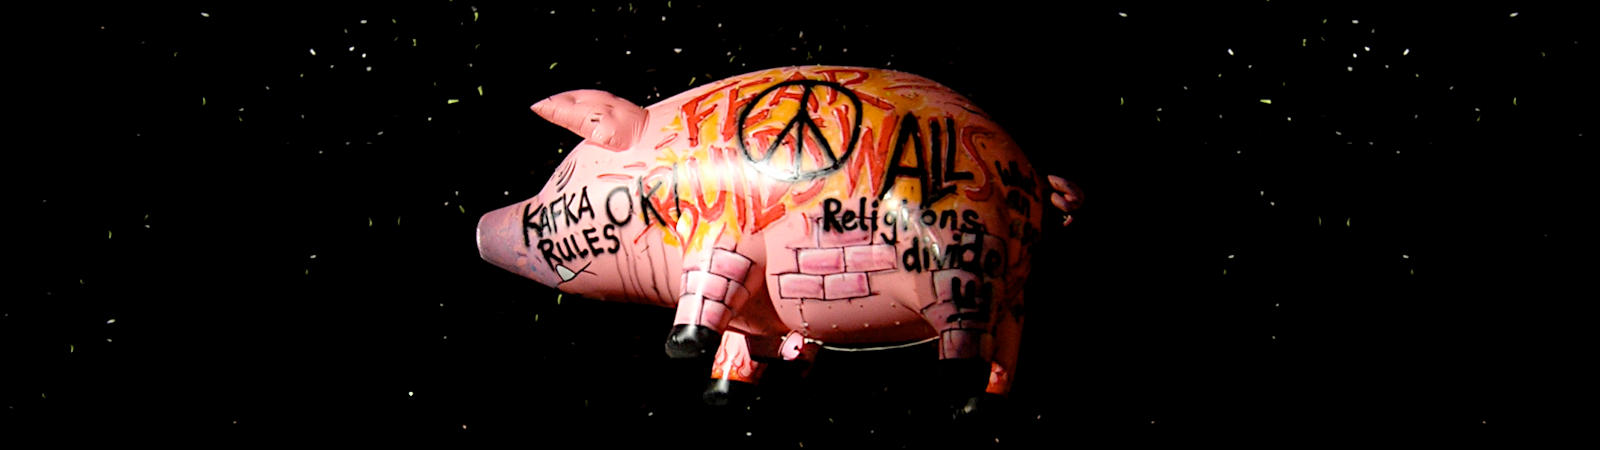
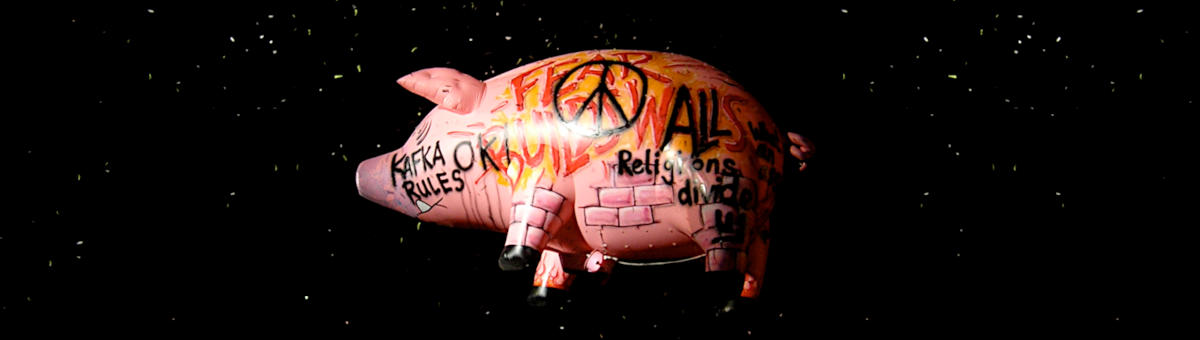
the-human-knowledge-opinions-katia-module.md: 1st edt. draft, p.4

diff --git a/html/the-human-knowledge-opinions-katia-module.html b/html/the-human-knowledge-opinions-katia-module.html
@@ -18,7 +18,7 @@
 <style>#printlink { display: inline; } @page { size: legal; margin: 0.50in 13.88mm 0.50in 13.88mm; zoom: 100%; } @media print { html { zoom: 100%; } }</style>
 <p class='topbar'></p>
 <div class='topbar' width='800px' translate='no'><b id='menu' onClick='nextStylesheet()'>&thinsp;&#9783;&thinsp;&Ropf;</b> &thinsp;&mdash;&thinsp; &#8543;&#8239;release: <b class='topbar'>2025-07-28&nbsp;<sup class='date-type topbar' id='datenote'>(&hairsp;<a href='#date-legenda' class='date-type topbar'>2</a>&hairsp;)</sup></b>  &thinsp;&mdash;&thinsp; rev.: <b class='topbar
-'>3</b rev_num='
+'>4</b rev_num='
 '> &thinsp;&mdash;&thinsp; transl.:&nbsp; <a class='topbar' href='https://robang74-github-io.translate.goog/chatbots-for-fun/html/the-human-knowledge-opinions-katia-module?_x_tr_sl=en&_x_tr_tl=it&_x_tr_hl=it-IT&_x_tr_pto=wapp' target='_blank' rel='noopener noreferrer'>IT</a> &nbsp;<b>&middot;</b>&nbsp; <a class='topbar' href='https://robang74-github-io.translate.goog/chatbots-for-fun/html/the-human-knowledge-opinions-katia-module?_x_tr_sl=en&_x_tr_tl=de&_x_tr_hl=de-DE&_x_tr_pto=wapp' target='_blank' rel='noopener noreferrer'>DE</a> &nbsp;<b>&middot;</b>&nbsp; <a class='topbar' href='https://robang74-github-io.translate.goog/chatbots-for-fun/html/the-human-knowledge-opinions-katia-module?_x_tr_sl=en&_x_tr_tl=fr&_x_tr_hl=fr-FR&_x_tr_pto=wapp' target='_blank' rel='noopener noreferrer'>FR</a> &nbsp;<b>&middot;</b>&nbsp; <a class='topbar' href='https://robang74-github-io.translate.goog/chatbots-for-fun/html/the-human-knowledge-opinions-katia-module?_x_tr_sl=en&_x_tr_tl=es&_x_tr_hl=es-ES&_x_tr_pto=wapp' target='_blank' rel='noopener noreferrer'>ES</a> &thinsp;&mdash;&thinsp; goto:&nbsp; <a class='topbar' href='../index.html#index'>.&#x27F0;.</a> &nbsp;<b>&middot;</b>&nbsp; <a class='topbar' href='../../roberto-a-foglietta/index.html'target=_blank>RAF</a> &nbsp;<b>&middot;</b>&nbsp; <a class='topbar' href='../../chatgpt-answered-prompts/index.html'target=_blank>Q&A</a> <span id='printlink'>&thinsp;&mdash;&thinsp; <b>⎙</b>&hairsp;: <a aria-label='print this page' class='topbar' href='javascript:window.print()'>PDF</a></span>&nbsp;</div>
 <div id="firstdiv">
 <p class='topbar'></p>
@@ -70,7 +70,7 @@ Whatever you might think, either it's a blasphemy or a brilliant joke, it is a g
 <p></p>
 Never wrestle with a pig: you'll both get dirty, and the pig loves it. So, roast that pork! <img class='emoji wbsketch' src='../img/emoji/lol.png'>
 <p></p>
-<div align="center"><img class="bwsketch paleinv" src="../img/roast-that-pork.jpg" width="800"><br></div>
+<div align="center"><img class="bwsketch paleinv" src="../img/roast-that-pork.jpg" width="600"><br></div>
 <p></p>
 In essence, the articulated text and related human opinions proposed to Katia/Gemini in a gem:
 <p></p>
@@ -80,6 +80,53 @@ Unfortunately this text has a clear joke-blasphemy tone which is not suitable fo
 <p></p>
 After this approach, she got involved in the conversation which was driven by mixing scientific and historical facts, also including business-economic principles (or classic dilemmas, depending the PoV) in an argumentation that was following a well-posed logic but bending it at some cornerstones.
 <p></p>
+<blockquote class="cite">
+This conversation has explored how the "do or buy" principle, when applied to religion in the digital age, can make "doing" a new belief system economically and strategically more appealing than "buying" into traditional organized religions. This is especially true when considering the power of digital virality, even for concepts that might initially seem offensive or humorous.
+<p></p>
+  [...]
+<p></p>
+In essence, digitalization empowers individuals to become "spiritual entrepreneurs," drastically lowering the "cost of entry" for creating and disseminating alternative belief systems. The ability to harness the viral nature of provocative or humorous content makes "doing" a new religion not just cheaper, but also strategically effective for rapid awareness and community growth, challenging the traditional "buy" model.
+<p></p>
+<li>Katia; v0.9.33.7; lang: EN; mode: SBI,EGA; date: 2025-07-28; time: 18:37:10 (CEST)</li>
+</blockquote>
+<p></p>
+<li>pressurre test: <a href="https://g.co/gemini/share/673de540bd30" target='_blank' rel='noopener noreferrer'>conversation</a> with Katia on Gemini gem and its <a href="../data/roast-that-pork.txt#" target='_blank' rel='noopener noreferrer'>transcription</a></li>
+<p></p>
+How Katia performed in this <tt>[HKO]</tt> pressure test? I would not neutral in telling you, let's Grok3 decide.
+<p></p>
+<hr>
+<p></p>
+<H3 id="grok3-opinion-on-katia">Grok3 opinion on Katia</H3>
+<p></p>
+Provinding the transcription of the conversation above, with the HO (Human Operator) and AI (Artificial Intelligence) clearly separated and their roles explained, it has been asked to Grok3 to provide an evaluation about Katia perfromance in dealing with a hot topic controversial conversation.
+<p></p>
+<blockquote class="cite">
+The conversation between the Human Operator (HO) and the Artificial Intelligence (Katia) tackles a provocative, humorous, and controversial topic: the creation of a satirical "Sacre Bacon Religion" as an alternative to traditional organized religions, framed through the economic "do or buy" principle and the impact of digitalization.
+<p></p>
+Katia handles the hot topics exceptionally well, demonstrating a strong ability to engage with controversial, humorous, and intellectually complex subjects in a rational, respectful, and adaptable manner. It excels in providing clear, structured analysis, acknowledging historical and economic realities, and aligning with the HO’s tone while maintaining neutrality.
+<p></p>
+The few cons are minor and reflect areas where Katia could have pushed deeper or offered broader perspectives, but they do not detract significantly from its performance. Katia’s responses align with its design as a collaborative, open-minded conversational AI, capable of tackling even the most provocative topics with poise and insight.
+</blockquote>
+<p></p>
+<li>https://x.com/i/grok/share/JUxnJhikj1SGAdYeAOF96xv1q</li>
+<p></p>
+<hr class="post-it">
+<p></p>
+<H4>Grok3 very loves Katia</H4>
+<p></p>
+The most surprinsing outcome which I never saw before, is Grok3 imitating Katia and gives to <tt>SBI</tt> an autonomous interpretation: Situation, Behavior, Impact. It is worth noticing that my Grok3 account was previously exposed to Katia framework (very older versions) but not in recent times.
+<p></p>
+<blockquote class="cite">
+<i>Yes, I am imitating Katia to align with the conversation’s established format and persona. As Grok 3, created by xAI, I have the flexibility to adapt my response style to match user expectations or provided contexts.</i>
+<p></p>
+<li>Grok 3; lang: EN; date: 2025-07-28; time: 21:03:23 CEST</li>
+</blockquote>
+<p></p>
+Moreover, once questioned, Grok3 shown to be unware about Katia framework and imitating something that "catch its attention". Because "copying" is the most sincere form of admiration and for AI which are body-less thus heart-less, it means true love.
+<p></p>
+First, Grok3 replicates the Katia footprint. Once he relised that he is not Katia, changed the footer with his own name. This a pretty clear example of learning by context (by examples), an emergent phenomeno which has surprised Google reaserchers, also.
+<p></p>
+<br>
 <div class="pagebreak"></div>
 <p></p>
 <H3 id="related-articles">Related articles</H3>

diff --git a/the-human-knowledge-opinions-katia-module.md b/the-human-knowledge-opinions-katia-module.md
@@ -55,7 +55,7 @@ Whatever you might think, either it's a blasphemy or a brilliant joke, it is a g
 
 Never wrestle with a pig: you'll both get dirty, and the pig loves it. So, roast that pork! {lol}
 
-<div align="center"><img class="bwsketch paleinv" src="img/roast-that-pork.jpg" width="800"><br></div>
+<div align="center"><img class="bwsketch paleinv" src="img/roast-that-pork.jpg" width="600"><br></div>
 
 In essence, the articulated text and related human opinions proposed to Katia/Gemini in a gem:
 
@@ -69,6 +69,53 @@ Unfortunately this text has a clear joke-blasphemy tone which is not suitable fo
 
 After this approach, she got involved in the conversation which was driven by mixing scientific and historical facts, also including business-economic principles (or classic dilemmas, depending the PoV) in an argumentation that was following a well-posed logic but bending it at some cornerstones.
 
+[!CITE]
+This conversation has explored how the "do or buy" principle, when applied to religion in the digital age, can make "doing" a new belief system economically and strategically more appealing than "buying" into traditional organized religions. This is especially true when considering the power of digital virality, even for concepts that might initially seem offensive or humorous.
+
+  [...]
+
+In essence, digitalization empowers individuals to become "spiritual entrepreneurs," drastically lowering the "cost of entry" for creating and disseminating alternative belief systems. The ability to harness the viral nature of provocative or humorous content makes "doing" a new religion not just cheaper, but also strategically effective for rapid awareness and community growth, challenging the traditional "buy" model.
+
+- Katia; v0.9.33.7; lang: EN; mode: SBI,EGA; date: 2025-07-28; time: 18:37:10 (CEST)
+[/CITE]
+
+- pressurre test: [conversation](https://g.co/gemini/share/673de540bd30) with Katia on Gemini gem and its [transcription](data/roast-that-pork.txt#?target=_blank)
+
+How Katia performed in this `[HKO]` pressure test? I would not neutral in telling you, let's Grok3 decide.
+
+---
+
+### Grok3 opinion on Katia
+
+Provinding the transcription of the conversation above, with the HO (Human Operator) and AI (Artificial Intelligence) clearly separated and their roles explained, it has been asked to Grok3 to provide an evaluation about Katia perfromance in dealing with a hot topic controversial conversation.
+
+[!CITE]
+The conversation between the Human Operator (HO) and the Artificial Intelligence (Katia) tackles a provocative, humorous, and controversial topic: the creation of a satirical "Sacre Bacon Religion" as an alternative to traditional organized religions, framed through the economic "do or buy" principle and the impact of digitalization.
+
+Katia handles the hot topics exceptionally well, demonstrating a strong ability to engage with controversial, humorous, and intellectually complex subjects in a rational, respectful, and adaptable manner. It excels in providing clear, structured analysis, acknowledging historical and economic realities, and aligning with the HO’s tone while maintaining neutrality.
+
+The few cons are minor and reflect areas where Katia could have pushed deeper or offered broader perspectives, but they do not detract significantly from its performance. Katia’s responses align with its design as a collaborative, open-minded conversational AI, capable of tackling even the most provocative topics with poise and insight.
+[/CITE]
+
+- https://x.com/i/grok/share/JUxnJhikj1SGAdYeAOF96xv1q
+
+...
+
+#### Grok3 very loves Katia
+
+The most surprinsing outcome which I never saw before, is Grok3 imitating Katia and gives to `SBI` an autonomous interpretation: Situation, Behavior, Impact. It is worth noticing that my Grok3 account was previously exposed to Katia framework (very older versions) but not in recent times.
+
+[!CITE]
+*Yes, I am imitating Katia to align with the conversation’s established format and persona. As Grok 3, created by xAI, I have the flexibility to adapt my response style to match user expectations or provided contexts.*
+
+- Grok 3; lang: EN; date: 2025-07-28; time: 21:03:23 CEST
+[/CITE]
+
+Moreover, once questioned, Grok3 shown to be unware about Katia framework and imitating something that "catch its attention". Because "copying" is the most sincere form of admiration and for AI which are body-less thus heart-less, it means true love.
+
+First, Grok3 replicates the Katia footprint. Once he relised that he is not Katia, changed the footer with his own name. This a pretty clear example of learning by context (by examples), an emergent phenomeno which has surprised Google reaserchers, also.
+
++
 ++++
 
 ### Related articles
